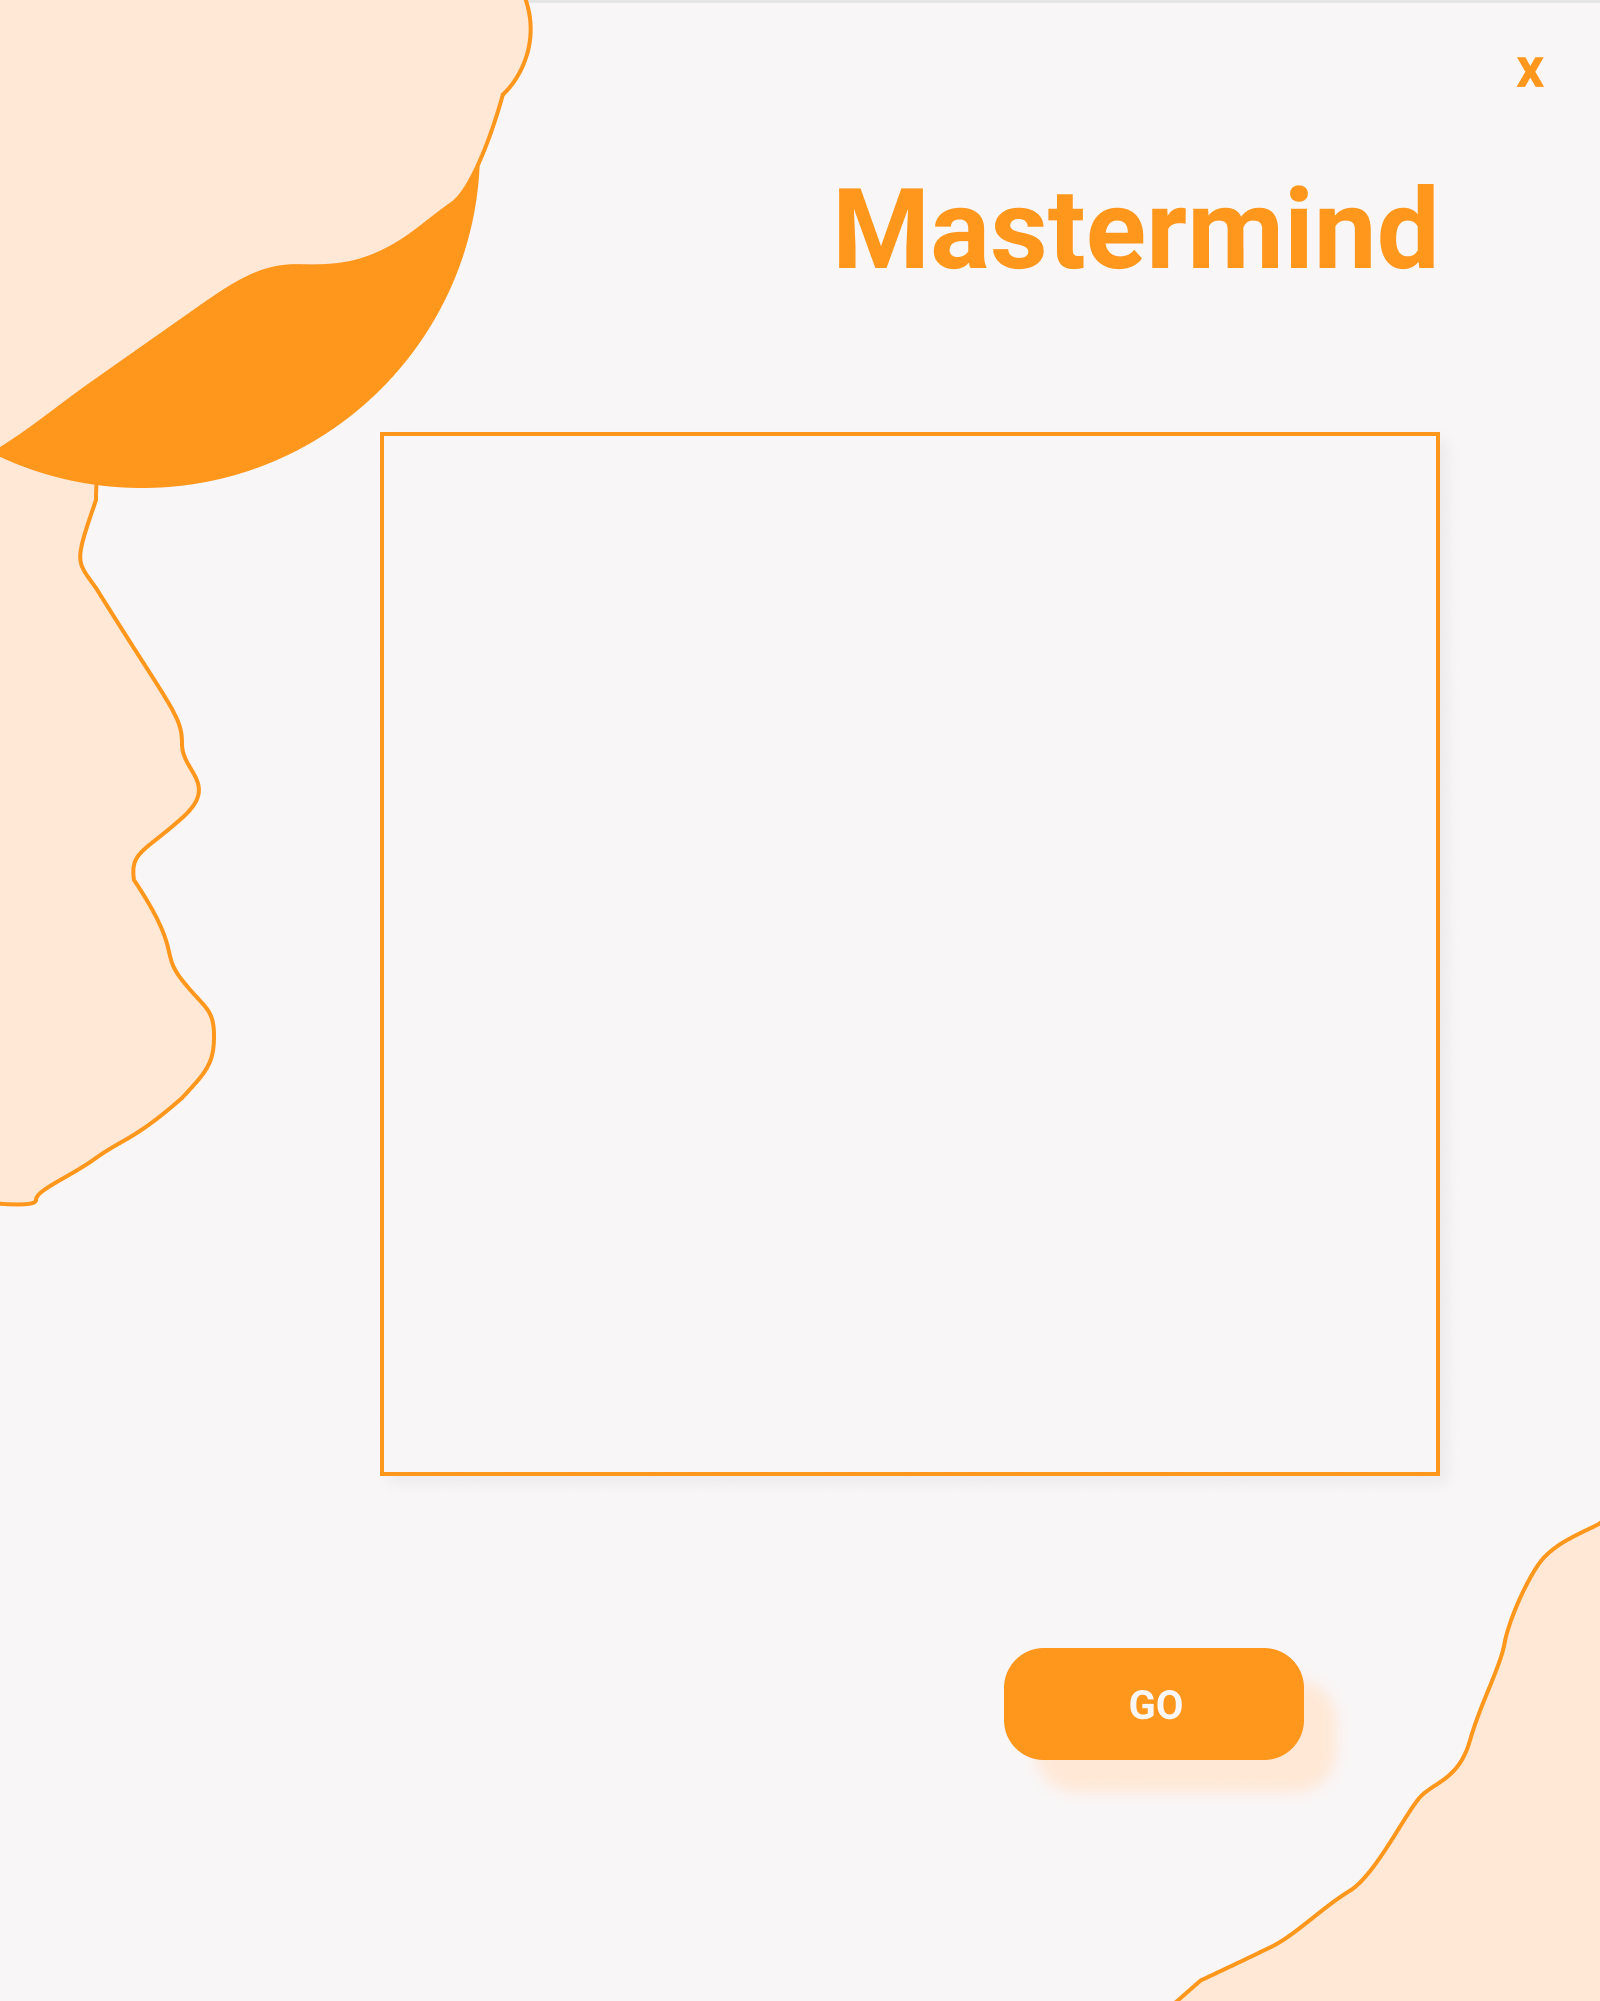
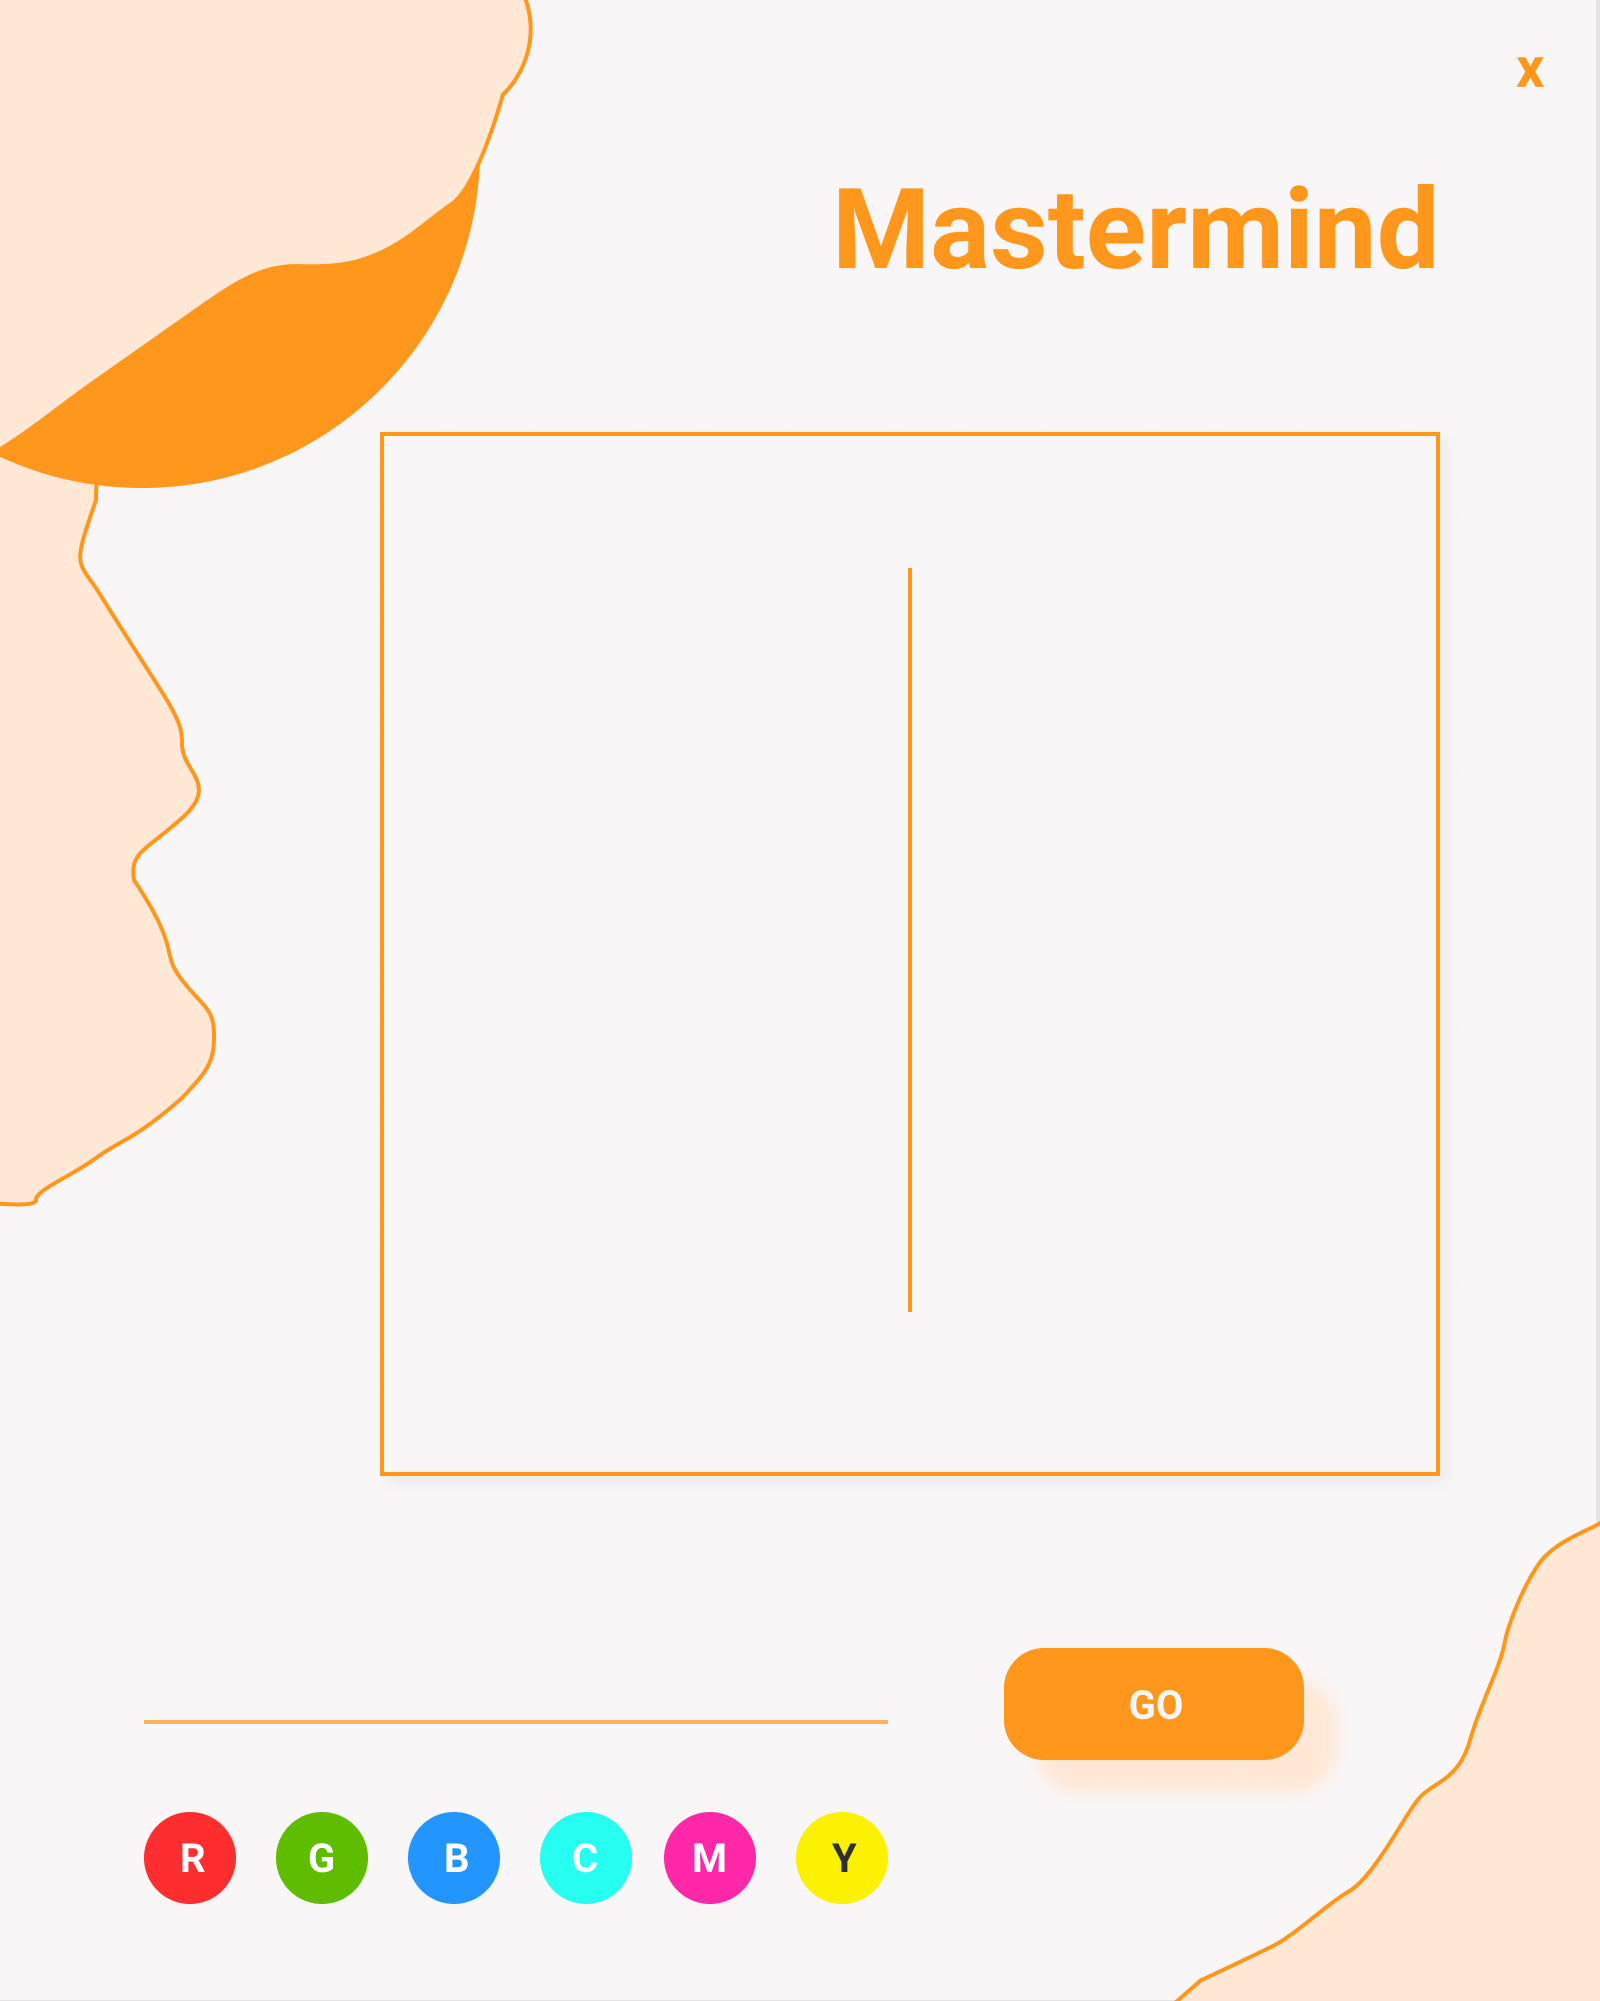
Add error check in WPF

Changed region(s): [[0.0938, 0.8986, 0.3125, 0.9605], [0.3438, 0.8986, 0.4688, 0.9605], [0.5, 0.8986, 0.5625, 0.9605]]

diff --git a/MasterMind.WPF/Pages/GamePage.xaml b/MasterMind.WPF/Pages/GamePage.xaml
@@ -3,14 +3,19 @@
       xmlns:x="http://schemas.microsoft.com/winfx/2006/xaml"
       xmlns:mc="http://schemas.openxmlformats.org/markup-compatibility/2006" 
       xmlns:d="http://schemas.microsoft.com/expression/blend/2008" 
-      xmlns:local="clr-namespace:MasterMind.WPF.Pages"
+      xmlns:local="clr-namespace:MasterMind.WPF"
       mc:Ignorable="d" 
       Height="570" Width="480"
       Title="GamePage">
 
     <Grid>
         <Image  Margin="-15" Source="/Resources/game.png"></Image>
-        <Button Command="{Binding StartCommand}" Opacity="0" Cursor="Hand" HorizontalAlignment="Left" Margin="343,511,0,0" VerticalAlignment="Top" Width="97" Height="39"/>
+        <Button Command="{Binding SendInputCommand}" Opacity="0" Cursor="Hand" HorizontalAlignment="Left" Margin="299,477,0,0" VerticalAlignment="Top" Width="97" Height="39"/>
         <Button Command="{Binding CloseCommand}" Opacity="0" Cursor="Hand" HorizontalAlignment="Left" Margin="447,0,0,0" VerticalAlignment="Top" Width="23" Height="14"/>
+        <TextBox Text="{Binding InputValue}" Background="Transparent" TextAlignment="Center" BorderThickness="0" Margin="45,486,214,70"/>
+        <TextBlock Foreground="#FF971D" Text="{Binding RoundInformation}" Margin="242,80,20,466"></TextBlock>
+        <Rectangle Visibility="{Binding IsInputWrong, Converter={local:BooleanToVisibilityConverter}}" Fill="Red" Margin="43,501,214,68"/>
+        <TextBlock TextAlignment="Center" Visibility="{Binding IsInputWrong, Converter={local:BooleanToVisibilityConverter}}" Foreground="Red" Text="{Binding ErrorInformation}" Margin="0,505,214,45" HorizontalAlignment="Right" Width="221"/>
+
     </Grid>
 </Page>

diff --git a/MasterMind.WPF/ViewModels/GameViewModel.cs b/MasterMind.WPF/ViewModels/GameViewModel.cs
@@ -1,22 +1,68 @@
 using MasterMind.WPF.ViewModels.Base;
 using System;
-using System.Collections.Generic;
-using System.Linq;
-using System.Text;
-using System.Threading.Tasks;
+using System.Text.RegularExpressions;
 using System.Windows.Input;
 
 namespace MasterMind.WPF.ViewModels
 {
-    class GameViewModel : BaseViewModel
+    internal class GameViewModel : BaseViewModel
     {
+        #region Constant Fields
+
+        /// <summary>
+        /// Contains all the available colors in the game Mastermind..
+        /// </summary>
+        private const string AvailableColorsString = "rygbmc";
+
+        #endregion Constant Fields
+
+        #region Private Fields
+
+        /// <summary>
+        /// Instance of the Mastermind game.
+        /// </summary>
+        private Game game;
+
+        #endregion Private Fields
+
+        #region Public Properties
+
+        /// <summary>
+        /// Contains the information about current round.
+        /// </summary>
+        public string RoundInformation { get; set; }
+
+        /// <summary>
+        /// Contains the player's input.
+        /// </summary>
+        public string InputValue { get; set; }
+
+        /// <summary>
+        /// Contains information about what player did wrong.
+        /// </summary>
+        public string ErrorInformation { get; set; }
+
+        /// <summary>
+        /// User typed in incorrect input.
+        /// </summary>
+        public bool IsInputWrong { get; set; }
+
+        #endregion Public Properties
+
         #region Commands
 
         /// <summary>
         /// User clicked the 'x' icon.
         /// </summary>
         public ICommand CloseCommand { get; set; }
-        #endregion
+
+        /// <summary>
+        /// User clicked the 'go' icon. Send the answer to Game.
+        /// </summary>
+        public ICommand SendInputCommand { get; set; }
+
+        #endregion Commands
+
         #region Constructors
 
         /// <summary>
@@ -25,9 +71,14 @@ namespace MasterMind.WPF.ViewModels
         public GameViewModel()
         {
             CloseCommand = new RelayCommand(() => CloseApplication());
+            SendInputCommand = new RelayCommand(() => CheckInput());
+            game = new Game();
+            RoundInformation = GetRoundInformationText();
         }
-        #endregion
-        #region Public Methods
+
+        #endregion Constructors
+
+        #region Private Methods
 
         /// <summary>
         /// Close the application window.
@@ -36,6 +87,42 @@ namespace MasterMind.WPF.ViewModels
         {
             Environment.Exit(0);
         }
-        #endregion
+
+        private void SendInput()
+        {
+            game.CheckCode(InputValue);
+            RoundInformation = GetRoundInformationText();
+        }
+
+        private void CheckInput()
+        {
+            if (InputValue.Length != game.CodeLength)
+            { 
+                SetError("Length of the input was incorrect.");
+                return;
+            }
+
+            bool doCharactersExist = !Regex.IsMatch(InputValue, $"[^{AvailableColorsString}]");
+
+            if (doCharactersExist)
+            {
+                SetError("There were incorrect characters written.");
+                return;
+            }
+
+            SendInput();
+        }
+        private void SetError(string error)
+        {
+            IsInputWrong = true;
+            ErrorInformation = error;
+        }
+
+        private string GetRoundInformationText()
+        {
+            return $"Próba {game.Round}/{game.TimeLimit}. Ilość znaków w kodzie: {game.CodeLength}";
+        }
+
+        #endregion Private Methods
     }
 }

diff --git a/MasterMind.WPF/Converters/BooleanToVisibilityConverter.cs b/MasterMind.WPF/Converters/BooleanToVisibilityConverter.cs
@@ -1,0 +1,27 @@
+using System;
+using System.Globalization;
+using System.Windows;
+
+namespace MasterMind.WPF
+{
+    /// <summary>
+    /// Value converter that converts bool into a Visibility value.
+    /// </summary>
+    public class BooleanToVisibilityConverter : BaseValueConverter<BooleanToVisibilityConverter>
+    {
+        public override object Convert(object value, Type targetType, object parameter, CultureInfo culture)
+        {
+            if ((bool)value == false)
+                return Visibility.Hidden;
+            else if ((bool)value == true)
+                return Visibility.Visible;
+            else
+                return null;
+        }
+
+        public override object ConvertBack(object value, Type targetType, object parameter, CultureInfo culture)
+        {
+            throw new NotImplementedException();
+        }
+    }
+}
